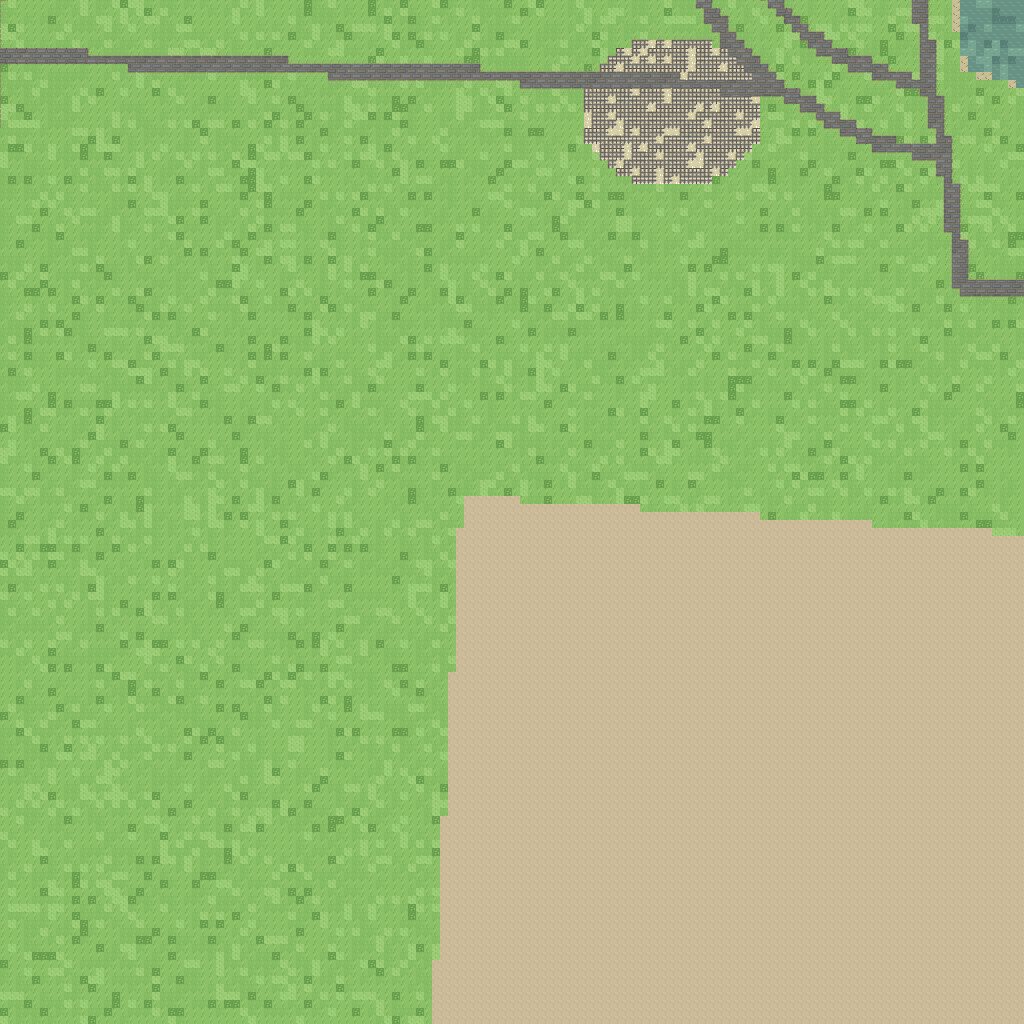
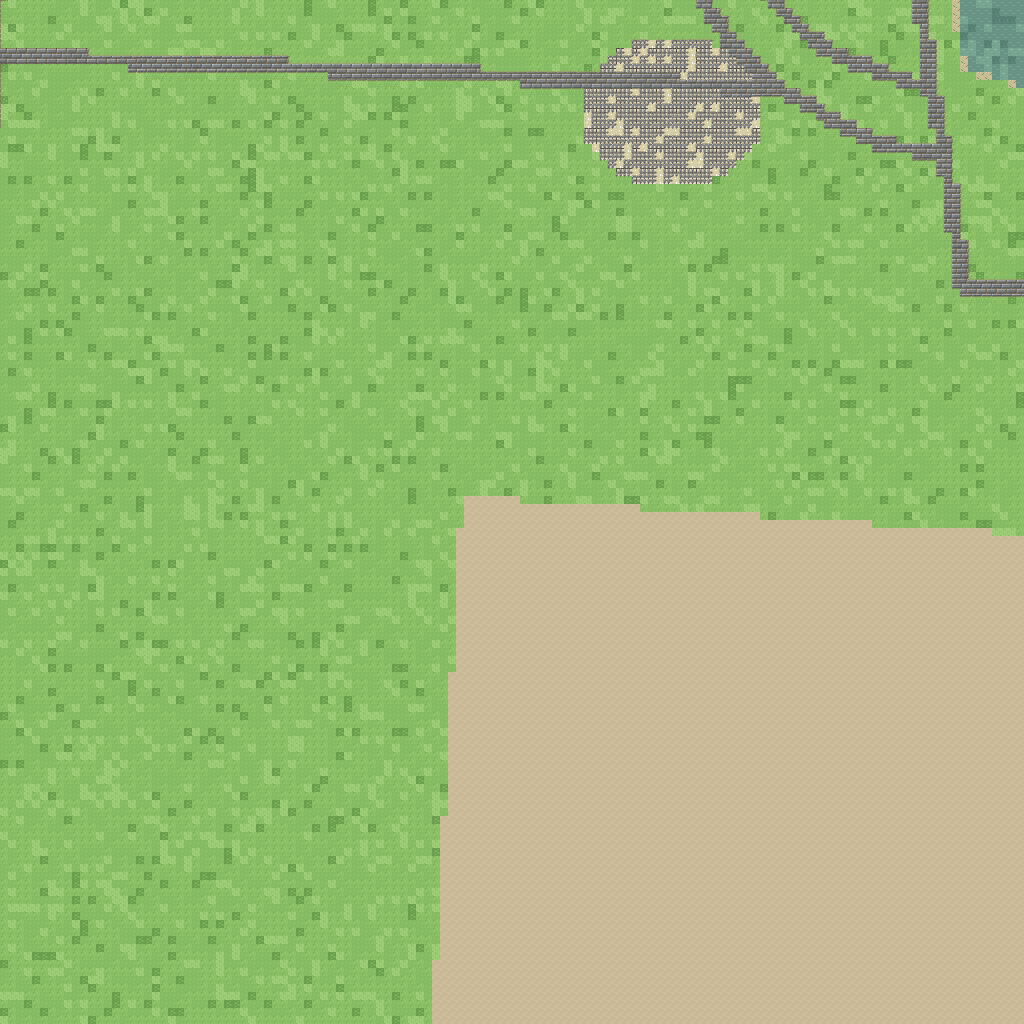
fix(world): 路面边缘改成方向性倒角（均匀暗边看着只是描边）
上一版只给路面最外 1px 一圈均匀压暗，1 格宽的小路在游戏视角（2.1x）下
看不出厚度，只是「描了个边」。改成按方向分档：

  上邻是草地 → 压亮 1.22（受光的路沿高光）
  下邻是草地 → 压暗 0.78（路沿立面）
  左 1.12 / 右 0.90

配合外侧土色路肩 + 背光侧路肩再压暗，窄路也能读出「抬起来的一条道」。
停车场贴图的亮路缘保留（那是一圈浅色混凝土，不是明暗）。

diff --git a/tools/bake_road_edge.py b/tools/bake_road_edge.py
@@ -40,9 +40,11 @@ WORLD_W, WORLD_H = 3392, 6400          # 424×8, 800×8
 # ---- 强度（亮度倍率，1.0 = 不变）----
 SHOULDER = 0.72        # 路肩：草地被踩出来的土，向 DIRT 混色的比例
 DIRT = (163, 150, 118)  # 土色
-SHADOW = 0.90          # 紧贴路缘的接触影（只打在背光侧 下/右）
-INNER_RIM = 0.82       # 路面最外 1px 压暗 = 与地面的接缝
-LIP = 1.10             # 受光侧（上/左）内侧倒角
+BEVEL_N = 1.22         # 受光侧（上/左）最外 1px：路沿的高光边
+BEVEL_W = 1.12
+BEVEL_S = 0.78         # 背光侧（下/右）最外 1px：路沿的立面
+BEVEL_E = 0.90
+SHADOW = 0.82          # 背光侧路肩上再压一道（土也要有影子）
 DOT_LIGHT = 1.05       # 路面碎石高光点
 DOT_DARK = 0.95        # 路面碎石暗点
 
@@ -119,10 +121,8 @@ def build(im):
     W, H = im.size
     R = road_mask(im)
     inner1 = erode(R, 1)
-    inner2 = erode(R, 2)
 
     ring0 = and_not(R, inner1)          # 路面最外 1px
-    ring1 = and_not(inner1, inner2)     # 向内第 2px
 
     out = im
 
@@ -133,15 +133,20 @@ def build(im):
     dirt = Image.new("RGB", (W, H), DIRT)
     out = Image.composite(Image.blend(out, dirt, SHOULDER), out, shoulder)
 
-    # ② 接触影：只打在背光侧（下/右），1px 压深
+    # ② 背光侧（下/右）的路肩再压暗一层，土也要有影子
     shadow = ImageChops.lighter(and_not(shift(R, 0, 1), R), and_not(shift(R, 1, 0), R))
     out = paint(out, SHADOW, shadow)
 
-    # ③ 内圈：接缝压暗 + 受光侧倒角
-    out = paint(out, INNER_RIM, ring0)
-    lip = and_not(ring1, shift(R, 0, 1))                     # 上邻是草地
-    lip = ImageChops.lighter(lip, and_not(ring1, shift(R, 1, 0)))
-    out = paint(out, LIP, lip)
+    # ③ 方向性倒角：路面最外 1px，受光侧亮、背光侧暗 —— 这条是「厚度」的主要来源，
+    #    1 格宽的小路全靠它才不像贴纸
+    n_edge = and_not(ring0, shift(R, 0, 1))    # 上邻是草地
+    s_edge = and_not(ring0, shift(R, 0, -1))
+    w_edge = and_not(ring0, shift(R, 1, 0))
+    e_edge = and_not(ring0, shift(R, -1, 0))
+    out = paint(out, BEVEL_N, n_edge)
+    out = paint(out, BEVEL_W, w_edge)
+    out = paint(out, BEVEL_S, s_edge)
+    out = paint(out, BEVEL_E, e_edge)
 
     # ④ 路面碎石纹理：现在是纯色平涂，放大看是一块死灰
     dot_n = Image.effect_noise((W // 2, H // 2), 26).resize((W, H), Image.NEAREST)

diff --git a/README.md b/README.md
@@ -129,14 +129,16 @@ xattr -cr 像素工大.app && codesign --force --deep --sign - 像素工大.app
 不动路的位置，只在边缘加一圈：
 
 ```
-草地 │ 1px 土色路肩 │ 1px 压暗接缝 │ 路面（碎石颗粒） │ 受光侧 1px 倒角
+草地 │ 1px 土色路肩 │ 路面最外 1px：受光侧压亮 / 背光侧压暗 │ 路面（碎石颗粒）
 ```
 
-- 路肩是把外侧 1px 草地按 72% 混土色（163,150,118），做「被踩秃的过渡带」
-- 接缝只压最外 1px 路面到 0.82，形成「路陷进地里」的暗边
+- 路肩是把外侧 1px 草地按 72% 混土色（163,150,118），做「被踩秃的过渡带」；
+  背光侧（下/右）的路肩再压暗一层，土也要有影子
+- **厚度主要来自方向性倒角**：路面最外 1px 按「上邻是草地 / 下邻是草地」分别
+  压亮 1.22 或压暗 0.78。1 格宽的小路全靠这一行才不像贴纸 —— 只有一圈均匀的
+  暗边时，看上去只是「描了个边」
 - 颗粒用 `Image.effect_noise` 缩一半再 NEAREST 放大 → 2×2 的方块状沙粒，
   跟草地的抖动质感同一套语言，不是细腻噪点
-- 背光侧（下/右）外侧再压一道 0.90 的接触影
 
 两个坑：
 
